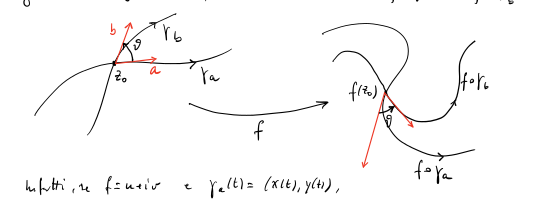
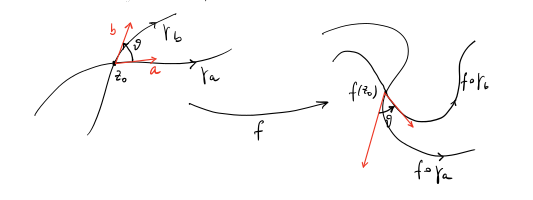
Finito di trascrivere la lezione finale, inoltre e' stata aggiunta al main. Modificate un immagine per rimuovere occlusione inutile

diff --git a/capitoli/analisi_complessa/mappe_conformi.tex b/capitoli/analisi_complessa/mappe_conformi.tex
@@ -28,16 +28,64 @@ reali di una funzione olomorfa è
 \end{remark}
 
 \begin{theorem}
+ \label{thr:conferme_sse_jacobiana_non_nulla}
   Sia $\morphism{f}{\Omega}{\C}$ e $z_0 \in \Omega$. Sia $f = u + iv$ con $u,v$
   differenziabili in $z_0$. Allora $f$ è conforme in $z_0$ se e solo se esiste
   la derivata complessa di $f'(z_0)$ e vale che $f'(z_0) \neq 0$.
-  \label{<+label+>}
 \end{theorem}
 \begin{proof}\
-  % TODO
   \begin{enumerate}
-    \item Se $f$ è differenziabile
-  \end{enumerate}<++>
+    \item[$\Rightarrow$] Se $f$ è differenziabile in $z_0$ allora $J_f(z_0) = 
+      |f'(z_0)|^2 > 0$ per ipotesi. Sia quindi $(u_x,v_x) = (r\cos\theta, 
+      r\sin\theta)$ con 
+      \begin{equation*}
+        r = \sqrt{u_x^2 + v_x^2} = |f'(z_0)|^2 > 0 
+      \end{equation*}
+      allora la matrice Jacobiana di $f$ in $z_0$ diventa
+      \begin{equation*}
+        \left(\begin{array}{cc}
+          r & 0 \\
+          0 & r
+      \end{array}\right)
+       \left( \begin{array}{cc}
+          \cos\theta & - \sin \theta \\
+          \sin \theta & \cos \theta
+      \end{array}\right)
+      \end{equation*}
+      corrisponde alla composizione di una rotazione con una omotetia, ma sono
+      entrambe trasformazioni che preservano gli angoli, da cui la tesi.
+    \item[$\Leftarrow$] Sia $f$ conforme in $z_0$. Sia $\theta$ l'angolo tra
+      i vettori $(1,0)$ e $J(1,0)$ con $J = J_f(z_0)$. Per cui costruiamo una
+      rotazione $R_\theta$ tale che $R_\theta^{-1}(J(1,0)) = (r,0)$ con $r > 0$
+      dato che se no $f$ non preserverebbe gli angoli. In particolare chiediamo
+      $R^{-1}_\theta$ una rotazione che rende l'angolo tra $(1,0)$
+      e $R^{-1}_\theta(J(1,0))$ sia nullo. Segue che la
+      trasformazione $G = R^{-1}_\theta J$ preserva gli angoli. Quindi segue che
+      anche $G (0,1) = (0, s)$ con $s > 0$.  Per cui $G(1,1) = (r,s)$
+      e dev'essere che $r = s$ dato che se non preserverebbe gli angoli. Per cui
+      consideriamo $(a,b)$ vettore qualsiasi, vale che $G(a,b) = r(a,b)$.
+      Because algebra: 
+      \begin{equation*}
+        R^{-1}_\theta J = I_r \Longrightarrow J = J_f(z_0) = R_\theta I_r
+      \end{equation*}
+      scritto in termini matriciali diventa
+      \begin{equation*}
+        J_f(z_0) = \left( 
+          \begin{array}{cc}
+          u_x & u_y \\
+          v_x & v_y 
+          \end{array}\right) = 
+          \left( 
+            \begin{array}{cc}
+              r\cos\theta & -r\sin\theta \\
+              r\sin\theta & r\cos\theta 
+            \end{array}
+          \right)
+      \end{equation*}
+      da cui segue subito che $u_x = v_y$ e $u_y = - v_x$, ovvero soddisfa le
+      condizioni di Cauchy-Riemann. Pertanto $f$ è differenziabile e inoltre
+      vale che $f'(z_0) \neq 0$ dato che $J \neq 0$.
+  \end{enumerate}
 \end{proof}
 
 \begin{corollary}

diff --git a/main.tex b/main.tex
@@ -114,6 +114,9 @@ TEST:
 \include{capitoli/analisi_complessa/zerifunzolom}
 %todos: 0
 
+\include{capitoli/analisi_complessa/mappe_conformi}
+%todos: 0
+
 \include{capitoli/analisi_complessa/esempi}
 %todos: 0
 
